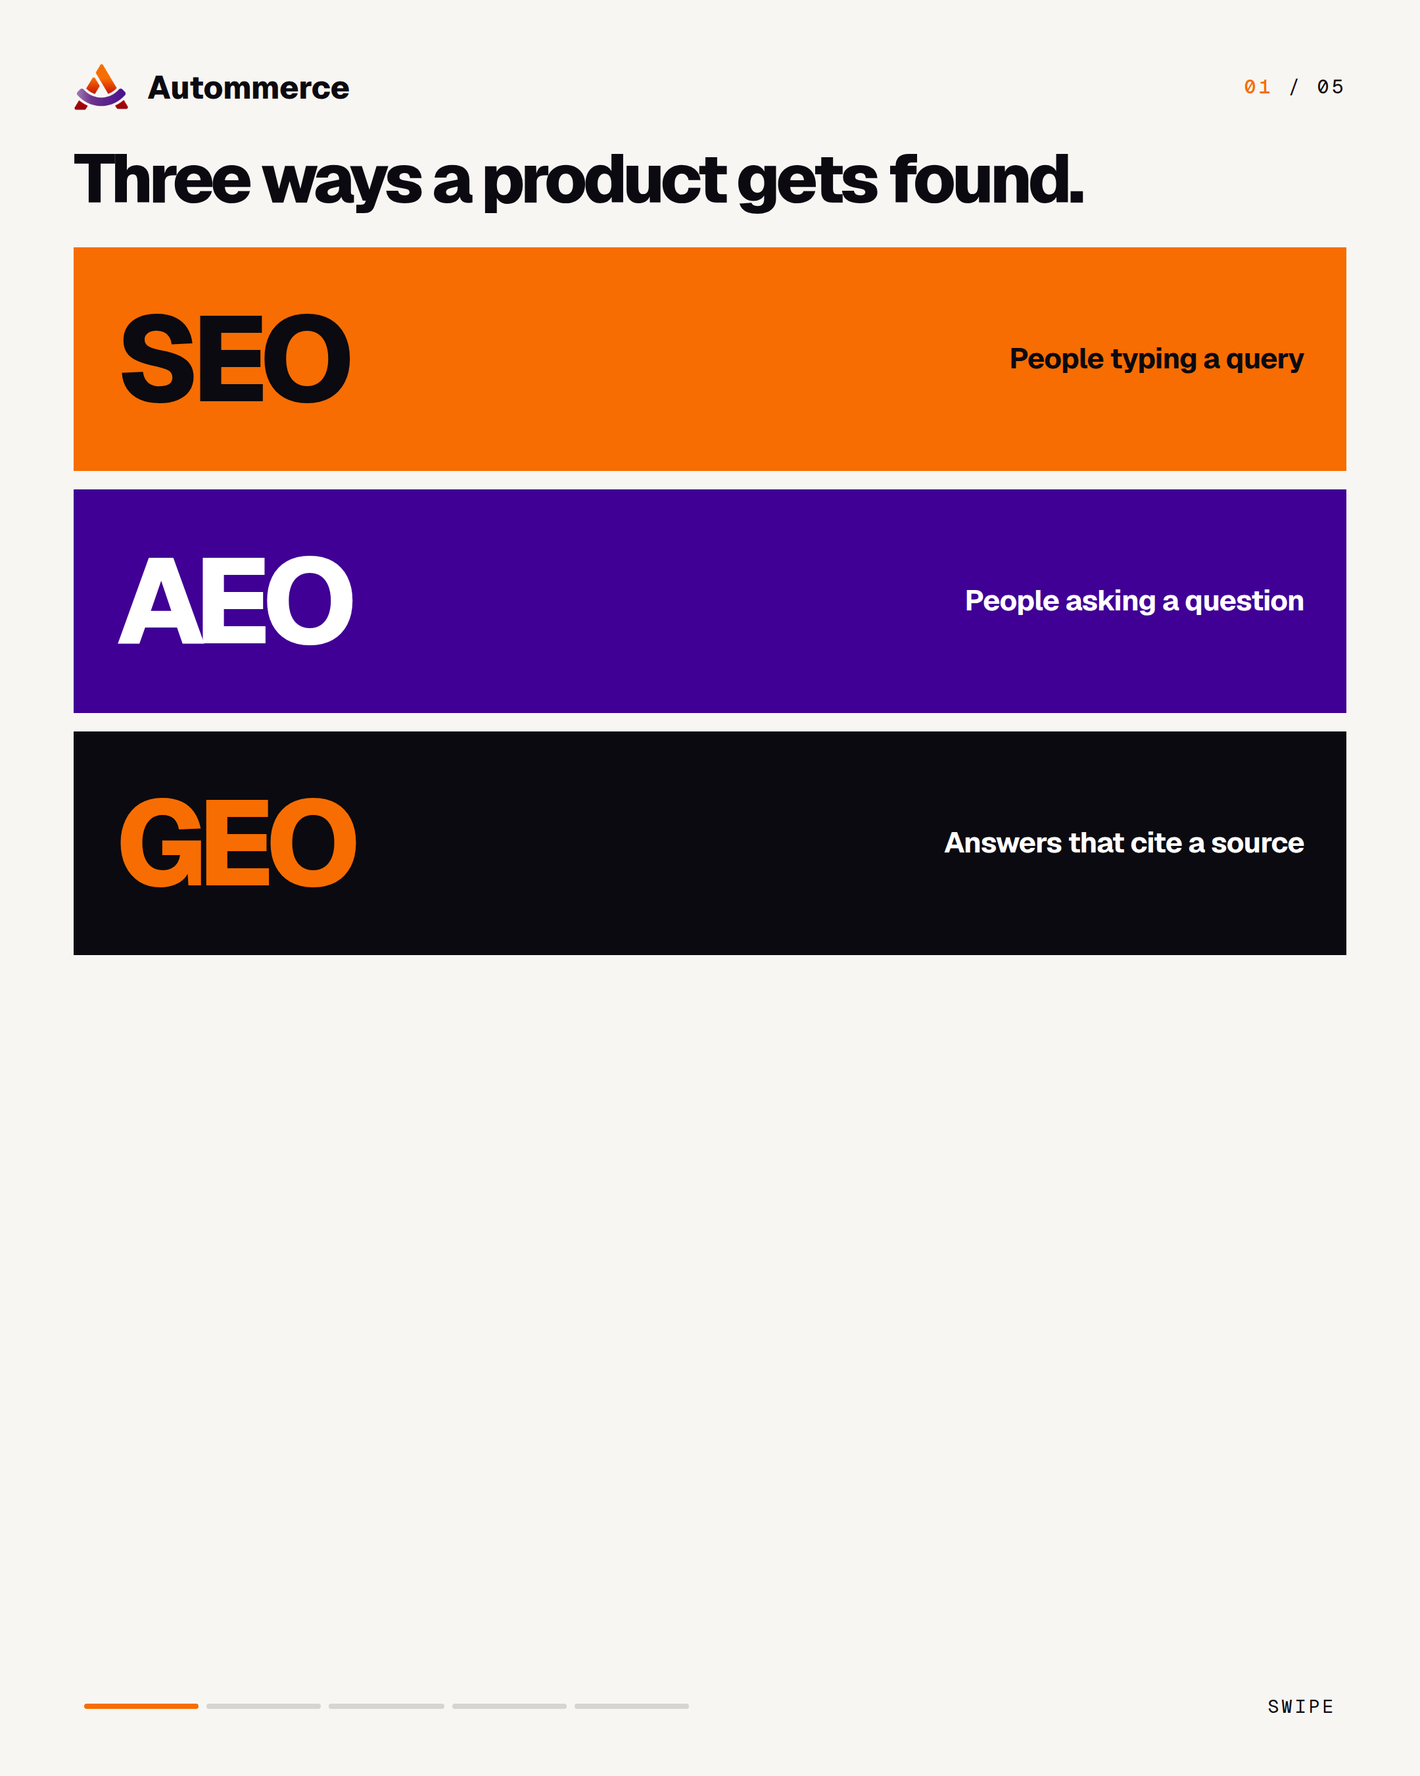
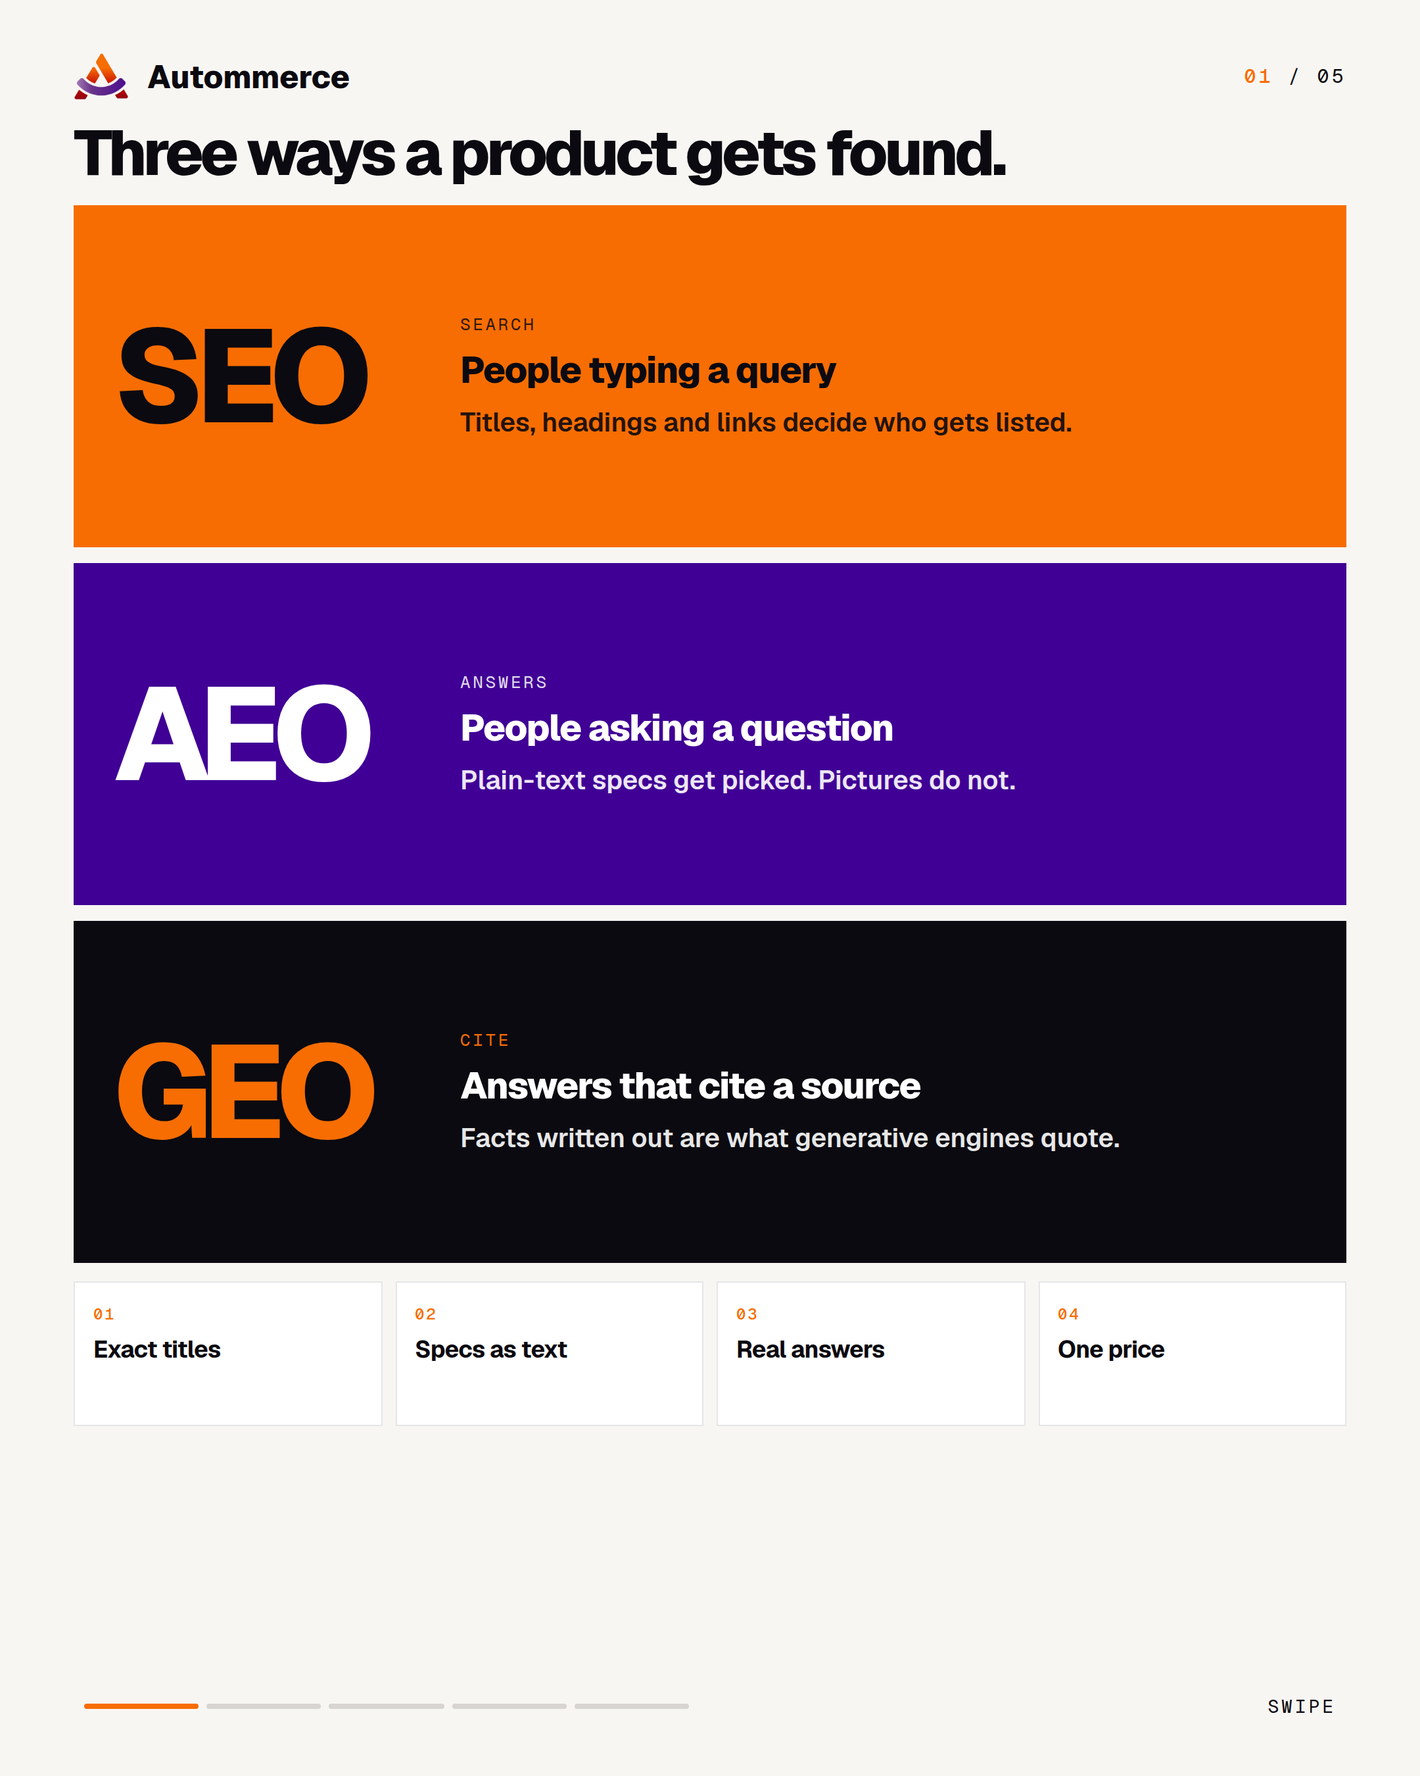
Upgrade Autommerce week posters with denser product layouts.
M9–M13 and M15–M18 rebuild: work-table arithmetic, approval drafts,
SEO/AEO/GEO bands, menu rebuild, audience cards, growth pipe,
overnight sync, gallery cells, and night-queue assistant.

diff --git a/social-content/calendar-2026-11/week-3/M11-seo-aeo-geo/slide_01.html b/social-content/calendar-2026-11/week-3/M11-seo-aeo-geo/slide_01.html
@@ -12,23 +12,32 @@ h1{font-weight:800;letter-spacing:-.055em;line-height:.92}
 .prog i.on{background:#F76D01!important}
 .swipe{font-family:'Geist Mono',monospace;font-size:14px;letter-spacing:.14em;text-transform:uppercase}
 
-.wrap{padding:48px 56px 0}
+.wrap{padding:40px 56px 0}
 .lock{display:flex;align-items:center;gap:14px;font-weight:800;font-size:24px}
-.count{position:absolute;right:56px;top:56px;font-size:15px}
+.count{position:absolute;right:56px;top:48px;font-size:15px}
 .count b{color:#F76D01;font-weight:500}
-h1{margin-top:28px;font-size:52px;width:900px}
-.stack{margin-top:28px;display:grid;gap:14px}
-.band{padding:28px 32px;display:flex;align-items:center;justify-content:space-between;min-height:170px}
-.band b{font-size:92px;font-weight:800;letter-spacing:-.07em;line-height:.85}
-.band span{font-size:22px;font-weight:650;letter-spacing:-.02em;max-width:280px;line-height:1.25;text-align:right}
+h1{margin-top:18px;font-size:48px;width:900px}
+.stack{margin-top:18px;display:grid;gap:12px}
+.band{padding:28px 30px;display:grid;grid-template-columns:240px 1fr;gap:24px;align-items:center;min-height:260px}
+.band .word{font-size:100px;font-weight:800;letter-spacing:-.07em;line-height:.82}
+.band .meta small{display:block;font-size:13px;letter-spacing:.14em;margin-bottom:10px;opacity:.85}
+.band .meta b{display:block;font-size:28px;font-weight:750;letter-spacing:-.03em;line-height:1.2}
+.band .meta p{margin-top:10px;font-size:20px;font-weight:550;line-height:1.3;opacity:.9;max-width:560px}
 .b1{background:#F76D01;color:#0B0A10}
 .b2{background:#400095;color:#fff}
 .b3{background:#0B0A10;color:#fff}
-.b3 b{color:#F76D01}
+.b3 .word{color:#F76D01}
+.b3 .meta small{color:#F76D01;opacity:1}
+.fix{margin-top:14px;display:grid;grid-template-columns:1fr 1fr 1fr 1fr;gap:10px}
+.fix div{background:#fff;border:1.5px solid rgba(11,10,16,.1);padding:16px 14px;min-height:110px}
+.fix b{display:block;font-size:12px;letter-spacing:.12em;color:#F76D01;margin-bottom:8px;font-weight:500}
+.fix span{font-size:18px;font-weight:700;letter-spacing:-.02em;line-height:1.2}
 body{background:#F8F6F3}</style></head><body><div class="wrap"><div class="lock"><img src="../../week-1/assets/autommerce-natural.png" alt="" style="width:42px;height:36px;object-fit:contain"> Autommerce</div><div class="count mono"><b>01</b> / 05</div>
 <h1>Three ways a product gets&nbsp;found.</h1>
 <div class="stack">
-<div class="band b1"><b>SEO</b><span>People typing a query</span></div>
-<div class="band b2"><b>AEO</b><span>People asking a question</span></div>
-<div class="band b3"><b>GEO</b><span>Answers that cite a source</span></div>
-</div></div><div class="foot "><div class="prog"><i class="on"></i><i class=""></i><i class=""></i><i class=""></i><i class=""></i></div><div class="swipe">Swipe</div></div></body></html>
+<div class="band b1"><div class="word">SEO</div><div class="meta"><small class="mono">Search</small><b>People typing a query</b><p>Titles, headings and links decide who gets listed.</p></div></div>
+<div class="band b2"><div class="word">AEO</div><div class="meta"><small class="mono">Answers</small><b>People asking a question</b><p>Plain-text specs get picked. Pictures do not.</p></div></div>
+<div class="band b3"><div class="word">GEO</div><div class="meta"><small class="mono">Cite</small><b>Answers that cite a source</b><p>Facts written out are what generative engines quote.</p></div></div>
+</div>
+<div class="fix"><div><b class="mono">01</b><span>Exact titles</span></div><div><b class="mono">02</b><span>Specs as text</span></div><div><b class="mono">03</b><span>Real answers</span></div><div><b class="mono">04</b><span>One price</span></div></div>
+</div><div class="foot "><div class="prog"><i class="on"></i><i class=""></i><i class=""></i><i class=""></i><i class=""></i></div><div class="swipe">Swipe</div></div></body></html>

diff --git a/social-content/calendar-2026-11/week-3/M13-who/slide_02.html b/social-content/calendar-2026-11/week-3/M13-who/slide_02.html
@@ -20,12 +20,12 @@ h1{font-weight:800;letter-spacing:-.055em;line-height:.92}
 .banner{margin-top:14px;background:#F76D01;color:#0B0A10;padding:26px 28px}
 .banner h1{font-size:52px;width:auto}
 .p{margin-top:18px;font-size:26px;line-height:1.35;letter-spacing:-.02em;width:920px;color:#3B3742;font-weight:600}
-.stats{margin-top:20px;display:grid;grid-template-columns:1fr 1fr 1fr;gap:12px}
-.stats div{background:#fff;border:1.5px solid rgba(11,10,16,.1);padding:22px 20px;min-height:150px}
-.stats b{display:block;font-size:34px;font-weight:800;letter-spacing:-.04em;line-height:1;color:#F76D01}
-.stats span{display:block;margin-top:12px;font-size:18px;font-weight:600;letter-spacing:-.02em;line-height:1.25;color:#3B3742}
-.rows{margin-top:16px;background:#fff;border:1.5px solid rgba(11,10,16,.1)}
-.rows .r{display:grid;grid-template-columns:160px 1fr;gap:16px;padding:18px 22px;border-top:1px solid rgba(11,10,16,.08);align-items:center}
+.stats{margin-top:18px;display:grid;grid-template-columns:1fr 1fr 1fr;gap:12px}
+.stats div{background:#fff;border:1.5px solid rgba(11,10,16,.1);padding:24px 20px;min-height:180px}
+.stats b{display:block;font-size:36px;font-weight:800;letter-spacing:-.04em;line-height:1;color:#F76D01}
+.stats span{display:block;margin-top:14px;font-size:18px;font-weight:600;letter-spacing:-.02em;line-height:1.25;color:#3B3742}
+.rows{margin-top:14px;background:#fff;border:1.5px solid rgba(11,10,16,.1)}
+.rows .r{display:grid;grid-template-columns:160px 1fr;gap:16px;padding:22px 22px;border-top:1px solid rgba(11,10,16,.08);align-items:center;min-height:78px}
 .rows .r:first-child{border-top:0}
 .rows .r b{font-size:14px;letter-spacing:.14em;color:#F76D01;font-weight:500;font-family:'Geist Mono',monospace;text-transform:uppercase}
 .rows .r span{font-size:24px;font-weight:650;letter-spacing:-.025em}

diff --git a/social-content/calendar-2026-11/week-3/M13-who/slide_05.html b/social-content/calendar-2026-11/week-3/M13-who/slide_05.html
@@ -20,12 +20,12 @@ h1{font-weight:800;letter-spacing:-.055em;line-height:.92}
 .banner{margin-top:14px;background:#0B0A10;color:#F76D01;padding:26px 28px}
 .banner h1{font-size:52px;width:auto}
 .p{margin-top:18px;font-size:26px;line-height:1.35;letter-spacing:-.02em;width:920px;color:#3B3742;font-weight:600}
-.stats{margin-top:20px;display:grid;grid-template-columns:1fr 1fr 1fr;gap:12px}
-.stats div{background:#fff;border:1.5px solid rgba(11,10,16,.1);padding:22px 20px;min-height:150px}
-.stats b{display:block;font-size:34px;font-weight:800;letter-spacing:-.04em;line-height:1;color:#0B0A10}
-.stats span{display:block;margin-top:12px;font-size:18px;font-weight:600;letter-spacing:-.02em;line-height:1.25;color:#3B3742}
-.rows{margin-top:16px;background:#fff;border:1.5px solid rgba(11,10,16,.1)}
-.rows .r{display:grid;grid-template-columns:160px 1fr;gap:16px;padding:18px 22px;border-top:1px solid rgba(11,10,16,.08);align-items:center}
+.stats{margin-top:18px;display:grid;grid-template-columns:1fr 1fr 1fr;gap:12px}
+.stats div{background:#fff;border:1.5px solid rgba(11,10,16,.1);padding:24px 20px;min-height:180px}
+.stats b{display:block;font-size:36px;font-weight:800;letter-spacing:-.04em;line-height:1;color:#0B0A10}
+.stats span{display:block;margin-top:14px;font-size:18px;font-weight:600;letter-spacing:-.02em;line-height:1.25;color:#3B3742}
+.rows{margin-top:14px;background:#fff;border:1.5px solid rgba(11,10,16,.1)}
+.rows .r{display:grid;grid-template-columns:160px 1fr;gap:16px;padding:22px 22px;border-top:1px solid rgba(11,10,16,.08);align-items:center;min-height:78px}
 .rows .r:first-child{border-top:0}
 .rows .r b{font-size:14px;letter-spacing:.14em;color:#0B0A10;font-weight:500;font-family:'Geist Mono',monospace;text-transform:uppercase}
 .rows .r span{font-size:24px;font-weight:650;letter-spacing:-.025em}

diff --git a/social-content/calendar-2026-11/week-3/M13-who/slide_03.html b/social-content/calendar-2026-11/week-3/M13-who/slide_03.html
@@ -20,12 +20,12 @@ h1{font-weight:800;letter-spacing:-.055em;line-height:.92}
 .banner{margin-top:14px;background:#400095;color:#fff;padding:26px 28px}
 .banner h1{font-size:52px;width:auto}
 .p{margin-top:18px;font-size:26px;line-height:1.35;letter-spacing:-.02em;width:920px;color:#3B3742;font-weight:600}
-.stats{margin-top:20px;display:grid;grid-template-columns:1fr 1fr 1fr;gap:12px}
-.stats div{background:#fff;border:1.5px solid rgba(11,10,16,.1);padding:22px 20px;min-height:150px}
-.stats b{display:block;font-size:34px;font-weight:800;letter-spacing:-.04em;line-height:1;color:#400095}
-.stats span{display:block;margin-top:12px;font-size:18px;font-weight:600;letter-spacing:-.02em;line-height:1.25;color:#3B3742}
-.rows{margin-top:16px;background:#fff;border:1.5px solid rgba(11,10,16,.1)}
-.rows .r{display:grid;grid-template-columns:160px 1fr;gap:16px;padding:18px 22px;border-top:1px solid rgba(11,10,16,.08);align-items:center}
+.stats{margin-top:18px;display:grid;grid-template-columns:1fr 1fr 1fr;gap:12px}
+.stats div{background:#fff;border:1.5px solid rgba(11,10,16,.1);padding:24px 20px;min-height:180px}
+.stats b{display:block;font-size:36px;font-weight:800;letter-spacing:-.04em;line-height:1;color:#400095}
+.stats span{display:block;margin-top:14px;font-size:18px;font-weight:600;letter-spacing:-.02em;line-height:1.25;color:#3B3742}
+.rows{margin-top:14px;background:#fff;border:1.5px solid rgba(11,10,16,.1)}
+.rows .r{display:grid;grid-template-columns:160px 1fr;gap:16px;padding:22px 22px;border-top:1px solid rgba(11,10,16,.08);align-items:center;min-height:78px}
 .rows .r:first-child{border-top:0}
 .rows .r b{font-size:14px;letter-spacing:.14em;color:#400095;font-weight:500;font-family:'Geist Mono',monospace;text-transform:uppercase}
 .rows .r span{font-size:24px;font-weight:650;letter-spacing:-.025em}

diff --git a/social-content/calendar-2026-11/week-3/M13-who/slide_04.html b/social-content/calendar-2026-11/week-3/M13-who/slide_04.html
@@ -20,12 +20,12 @@ h1{font-weight:800;letter-spacing:-.055em;line-height:.92}
 .banner{margin-top:14px;background:#6B358D;color:#fff;padding:26px 28px}
 .banner h1{font-size:52px;width:auto}
 .p{margin-top:18px;font-size:26px;line-height:1.35;letter-spacing:-.02em;width:920px;color:#3B3742;font-weight:600}
-.stats{margin-top:20px;display:grid;grid-template-columns:1fr 1fr 1fr;gap:12px}
-.stats div{background:#fff;border:1.5px solid rgba(11,10,16,.1);padding:22px 20px;min-height:150px}
-.stats b{display:block;font-size:34px;font-weight:800;letter-spacing:-.04em;line-height:1;color:#6B358D}
-.stats span{display:block;margin-top:12px;font-size:18px;font-weight:600;letter-spacing:-.02em;line-height:1.25;color:#3B3742}
-.rows{margin-top:16px;background:#fff;border:1.5px solid rgba(11,10,16,.1)}
-.rows .r{display:grid;grid-template-columns:160px 1fr;gap:16px;padding:18px 22px;border-top:1px solid rgba(11,10,16,.08);align-items:center}
+.stats{margin-top:18px;display:grid;grid-template-columns:1fr 1fr 1fr;gap:12px}
+.stats div{background:#fff;border:1.5px solid rgba(11,10,16,.1);padding:24px 20px;min-height:180px}
+.stats b{display:block;font-size:36px;font-weight:800;letter-spacing:-.04em;line-height:1;color:#6B358D}
+.stats span{display:block;margin-top:14px;font-size:18px;font-weight:600;letter-spacing:-.02em;line-height:1.25;color:#3B3742}
+.rows{margin-top:14px;background:#fff;border:1.5px solid rgba(11,10,16,.1)}
+.rows .r{display:grid;grid-template-columns:160px 1fr;gap:16px;padding:22px 22px;border-top:1px solid rgba(11,10,16,.08);align-items:center;min-height:78px}
 .rows .r:first-child{border-top:0}
 .rows .r b{font-size:14px;letter-spacing:.14em;color:#6B358D;font-weight:500;font-family:'Geist Mono',monospace;text-transform:uppercase}
 .rows .r span{font-size:24px;font-weight:650;letter-spacing:-.025em}

diff --git a/social-content/calendar-2026-11/week-4/M15-growth/poster.html b/social-content/calendar-2026-11/week-4/M15-growth/poster.html
@@ -17,7 +17,7 @@ h1{font-weight:800;letter-spacing:-.055em;line-height:.92}
 h1{margin-top:18px;font-size:48px;width:940px}
 .sub{margin-top:10px;font-size:20px;color:#3B3742;letter-spacing:-.015em;max-width:900px}
 .stages{margin-top:18px;display:grid;grid-template-columns:1fr 1fr;gap:12px}
-.st{padding:24px 22px;min-height:250px;display:flex;flex-direction:column;justify-content:space-between}
+.st{padding:24px 22px;min-height:310px;display:flex;flex-direction:column;justify-content:space-between}
 .st .n{font-size:13px;letter-spacing:.14em}
 .st b{font-size:38px;font-weight:800;letter-spacing:-.04em;line-height:1}
 .st span{margin-top:12px;font-size:20px;font-weight:600;letter-spacing:-.02em;line-height:1.3}

diff --git a/social-content/calendar-2026-11/build_weeks.py b/social-content/calendar-2026-11/build_weeks.py
@@ -269,27 +269,36 @@ def m11():
     N = 5
     pages = {}
     css0 = """
-.wrap{padding:48px 56px 0}
+.wrap{padding:40px 56px 0}
 .lock{display:flex;align-items:center;gap:14px;font-weight:800;font-size:24px}
-.count{position:absolute;right:56px;top:56px;font-size:15px}
+.count{position:absolute;right:56px;top:48px;font-size:15px}
 .count b{color:#F76D01;font-weight:500}
-h1{margin-top:28px;font-size:52px;width:900px}
-.stack{margin-top:28px;display:grid;gap:14px}
-.band{padding:28px 32px;display:flex;align-items:center;justify-content:space-between;min-height:170px}
-.band b{font-size:92px;font-weight:800;letter-spacing:-.07em;line-height:.85}
-.band span{font-size:22px;font-weight:650;letter-spacing:-.02em;max-width:280px;line-height:1.25;text-align:right}
+h1{margin-top:18px;font-size:48px;width:900px}
+.stack{margin-top:18px;display:grid;gap:12px}
+.band{padding:28px 30px;display:grid;grid-template-columns:240px 1fr;gap:24px;align-items:center;min-height:260px}
+.band .word{font-size:100px;font-weight:800;letter-spacing:-.07em;line-height:.82}
+.band .meta small{display:block;font-size:13px;letter-spacing:.14em;margin-bottom:10px;opacity:.85}
+.band .meta b{display:block;font-size:28px;font-weight:750;letter-spacing:-.03em;line-height:1.2}
+.band .meta p{margin-top:10px;font-size:20px;font-weight:550;line-height:1.3;opacity:.9;max-width:560px}
 .b1{background:#F76D01;color:#0B0A10}
 .b2{background:#400095;color:#fff}
 .b3{background:#0B0A10;color:#fff}
-.b3 b{color:#F76D01}
+.b3 .word{color:#F76D01}
+.b3 .meta small{color:#F76D01;opacity:1}
+.fix{margin-top:14px;display:grid;grid-template-columns:1fr 1fr 1fr 1fr;gap:10px}
+.fix div{background:#fff;border:1.5px solid rgba(11,10,16,.1);padding:16px 14px;min-height:110px}
+.fix b{display:block;font-size:12px;letter-spacing:.12em;color:#F76D01;margin-bottom:8px;font-weight:500}
+.fix span{font-size:18px;font-weight:700;letter-spacing:-.02em;line-height:1.2}
 """
     body0 = f'''<div class="wrap"><div class="lock">{logo()} Autommerce</div><div class="count mono"><b>01</b> / {N:02d}</div>
 <h1>Three ways a product gets&nbsp;found.</h1>
 <div class="stack">
-<div class="band b1"><b>SEO</b><span>People typing a query</span></div>
-<div class="band b2"><b>AEO</b><span>People asking a question</span></div>
-<div class="band b3"><b>GEO</b><span>Answers that cite a source</span></div>
-</div></div>{foot(0, N)}'''
+<div class="band b1"><div class="word">SEO</div><div class="meta"><small class="mono">Search</small><b>People typing a query</b><p>Titles, headings and links decide who gets listed.</p></div></div>
+<div class="band b2"><div class="word">AEO</div><div class="meta"><small class="mono">Answers</small><b>People asking a question</b><p>Plain-text specs get picked. Pictures do not.</p></div></div>
+<div class="band b3"><div class="word">GEO</div><div class="meta"><small class="mono">Cite</small><b>Answers that cite a source</b><p>Facts written out are what generative engines quote.</p></div></div>
+</div>
+<div class="fix"><div><b class="mono">01</b><span>Exact titles</span></div><div><b class="mono">02</b><span>Specs as text</span></div><div><b class="mono">03</b><span>Real answers</span></div><div><b class="mono">04</b><span>One price</span></div></div>
+</div>{foot(0, N)}'''
     pages['week-3/M11-seo-aeo-geo/slide_01'] = doc(body0, css0)
 
     css1 = """
@@ -510,12 +519,12 @@ h1{margin-top:8px;font-size:52px;width:920px}
 .banner{{margin-top:14px;background:{accent};color:{accent_fg};padding:26px 28px}}
 .banner h1{{font-size:52px;width:auto}}
 .p{{margin-top:18px;font-size:26px;line-height:1.35;letter-spacing:-.02em;width:920px;color:#3B3742;font-weight:600}}
-.stats{{margin-top:20px;display:grid;grid-template-columns:1fr 1fr 1fr;gap:12px}}
-.stats div{{background:#fff;border:1.5px solid rgba(11,10,16,.1);padding:22px 20px;min-height:150px}}
-.stats b{{display:block;font-size:34px;font-weight:800;letter-spacing:-.04em;line-height:1;color:{accent}}}
-.stats span{{display:block;margin-top:12px;font-size:18px;font-weight:600;letter-spacing:-.02em;line-height:1.25;color:#3B3742}}
-.rows{{margin-top:16px;background:#fff;border:1.5px solid rgba(11,10,16,.1)}}
-.rows .r{{display:grid;grid-template-columns:160px 1fr;gap:16px;padding:18px 22px;border-top:1px solid rgba(11,10,16,.08);align-items:center}}
+.stats{{margin-top:18px;display:grid;grid-template-columns:1fr 1fr 1fr;gap:12px}}
+.stats div{{background:#fff;border:1.5px solid rgba(11,10,16,.1);padding:24px 20px;min-height:180px}}
+.stats b{{display:block;font-size:36px;font-weight:800;letter-spacing:-.04em;line-height:1;color:{accent}}}
+.stats span{{display:block;margin-top:14px;font-size:18px;font-weight:600;letter-spacing:-.02em;line-height:1.25;color:#3B3742}}
+.rows{{margin-top:14px;background:#fff;border:1.5px solid rgba(11,10,16,.1)}}
+.rows .r{{display:grid;grid-template-columns:160px 1fr;gap:16px;padding:22px 22px;border-top:1px solid rgba(11,10,16,.08);align-items:center;min-height:78px}}
 .rows .r:first-child{{border-top:0}}
 .rows .r b{{font-size:14px;letter-spacing:.14em;color:{accent};font-weight:500;font-family:'Geist Mono',monospace;text-transform:uppercase}}
 .rows .r span{{font-size:24px;font-weight:650;letter-spacing:-.025em}}
@@ -1055,7 +1064,7 @@ def m15():
 h1{margin-top:18px;font-size:48px;width:940px}
 .sub{margin-top:10px;font-size:20px;color:#3B3742;letter-spacing:-.015em;max-width:900px}
 .stages{margin-top:18px;display:grid;grid-template-columns:1fr 1fr;gap:12px}
-.st{padding:24px 22px;min-height:250px;display:flex;flex-direction:column;justify-content:space-between}
+.st{padding:24px 22px;min-height:310px;display:flex;flex-direction:column;justify-content:space-between}
 .st .n{font-size:13px;letter-spacing:.14em}
 .st b{font-size:38px;font-weight:800;letter-spacing:-.04em;line-height:1}
 .st span{margin-top:12px;font-size:20px;font-weight:600;letter-spacing:-.02em;line-height:1.3}
